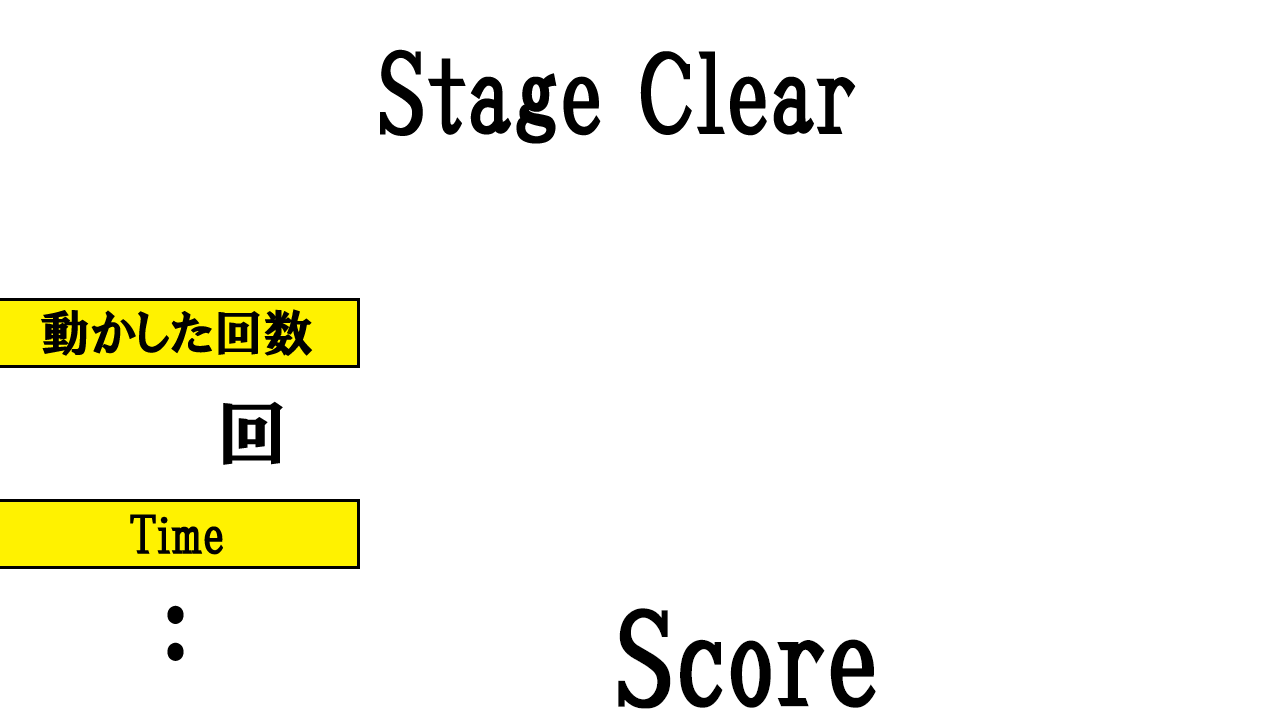
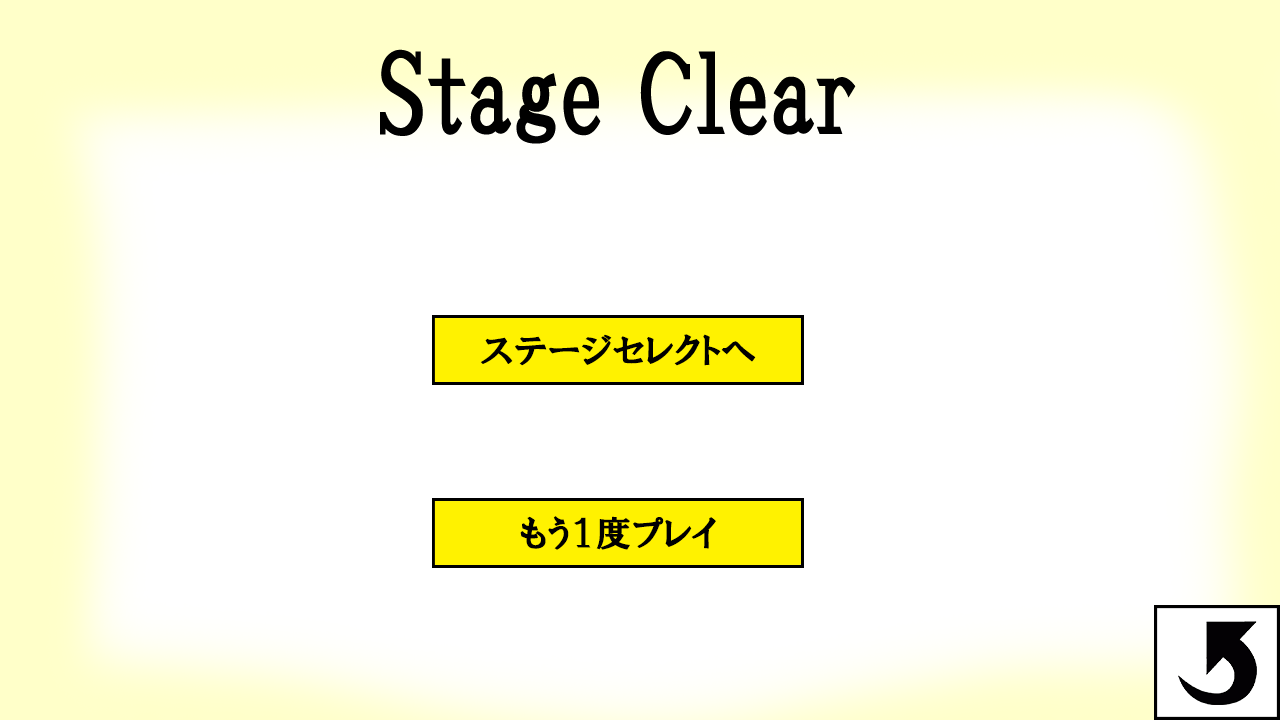
clear?r

diff --git a/Source/SceneClear.cpp b/Source/SceneClear.cpp
@@ -7,28 +7,21 @@
 #include "Player.h" 
 #include "Player_sd.h"
 
-//void setScore(OBJ2D* obj);
-
-OBJ2D score;
-int Score;
+OBJ2D clear;
 
 void SceneClear::init()
 {
     timer = 0;
 
-    Score = 0;
-    score.position = { 1000,300 };
-    score.scale = { 2,2 };
-    //score.mover = setScore;
-    for (auto& player : PlayerManager::getInstance())
-    {
-        Score += player.score;
-    }
+    clear.sprData = &sprClear;
+    clear.position = { 0,0 };
 
+    PlayerManager::getInstance().init();
+    
     AudioManager::getInstance().init();
     AudioManager::getInstance().loadSound(L"clearSound", L"./Data/Sounds/GameClear.wav");
     AudioManager::getInstance().loadSound(L"clearMusic", L"./Data/Musics/418_BPM168.wav");
-    AudioManager::getInstance().playSound(L"clearSound", 0.8f, false);
+    AudioManager::getInstance().playSound(L"clearSound", 0.1f, false);
     AudioManager::getInstance().loadSound(L"btnSound", L"./Data/Sounds/btn.wav");
 }
 
@@ -39,8 +32,6 @@ void SceneClear::deinit()
 
 void SceneClear::update()
 {
-    score.update();
-
     if (!AudioManager::getInstance().isPlaying(L"clearSound") && !AudioManager::getInstance().isPlaying(L"clearMusic"))
     {
         AudioManager::getInstance().playSound(L"clearMusic", 0.5f, true);
@@ -51,6 +42,9 @@ void SceneClear::update()
         setScene(SCENE::TITLE);
 
     }
+
+    PlayerManager::getInstance().update();
+
     AudioManager::getInstance().update();
 
     timer++;
@@ -60,16 +54,14 @@ void SceneClear::draw()
 {
     GameLib::clear(0, 0, 0);
 
-    std::string scoreText = std::to_string(Score);
-    GameLib::font::textOut(3, scoreText, { 300, 300 }, { 10,10 },
-        { 1, 1, 0, 1 }, GameLib::TEXT_ALIGN::MIDDLE_LEFT, 0.0f, false);
-
-    score.draw();
+    clear.draw();
 
     if (timer & 0x20)
     {
         GameLib::font::textOut(4, "Push spase key", { 640, 540 }, { 2, 2 },
             { 1, 1, 0, 1 }, GameLib::TEXT_ALIGN::MIDDLE, 0.0f, false);
     }
+
+    PlayerManager::getInstance().draw();
 }
 

diff --git a/Source/Player_sd.cpp b/Source/Player_sd.cpp
@@ -10,12 +10,13 @@ static constexpr float PLAYER_LIMIT_R = 1280 - 32;
 static constexpr float PLAYER_LIMIT_U = 32;
 static constexpr float PLAYER_LIMIT_D = 720 - 32;
 
-//extern bool sd_reset;
+bool sd_reset;
 
 void PlayerManager_sd::init()
 {
     OBJ2DManager::init();
-    //sd_reset = false;
+    sd_reset = true;
+
     switch (stage_number)
     {
     case 0:
@@ -101,7 +102,6 @@ void player_sd_Update(OBJ2D* obj)
         
         obj->hSize = { 63 / 2,63 / 2 };
         obj->judge = JUDGE_ALL;
-        //sd_reset = false;
         obj->state++;
         [[fallthrough]];
     case 1:
@@ -123,10 +123,12 @@ void player_sd_Update(OBJ2D* obj)
 
         break;
     case 2:
-        /*if (sd_reset)
+        if (sd_reset)
         {
+            sd_reset = false;
+            obj->goaled = false;
             obj->state = 0;
-        }*/
+        }
         
         obj->timer++;
         break;

diff --git a/Source/SpriteData.h b/Source/SpriteData.h
@@ -16,6 +16,7 @@ enum TEXNO
     HAKO,
     WARP,
     TOGE,
+    CLEAR_B,
 };
 
 struct SpriteUpperLeft : public GameLib::SpriteData
@@ -53,6 +54,7 @@ extern SpriteUpperLeft sprTitle;
 extern SpriteUpperLeft sprStart;
 extern SpriteUpperLeft sprStageSelect;
 extern SpriteUpperLeft sprEnd;
+extern SpriteUpperLeft sprClear;
 extern SpriteCenter sprPush;
 
 extern SpriteCenter sprPlayer;

diff --git a/Source/SceneGame.cpp b/Source/SceneGame.cpp
@@ -33,6 +33,10 @@ void SceneGame::update()
     {
         setScene(SCENE::STAGESEL);
     }
+    if ((GetAsyncKeyState('P') & 0x8000))
+    {
+        setScene(SCENE::CLEAR);
+    }
 }
 
 
